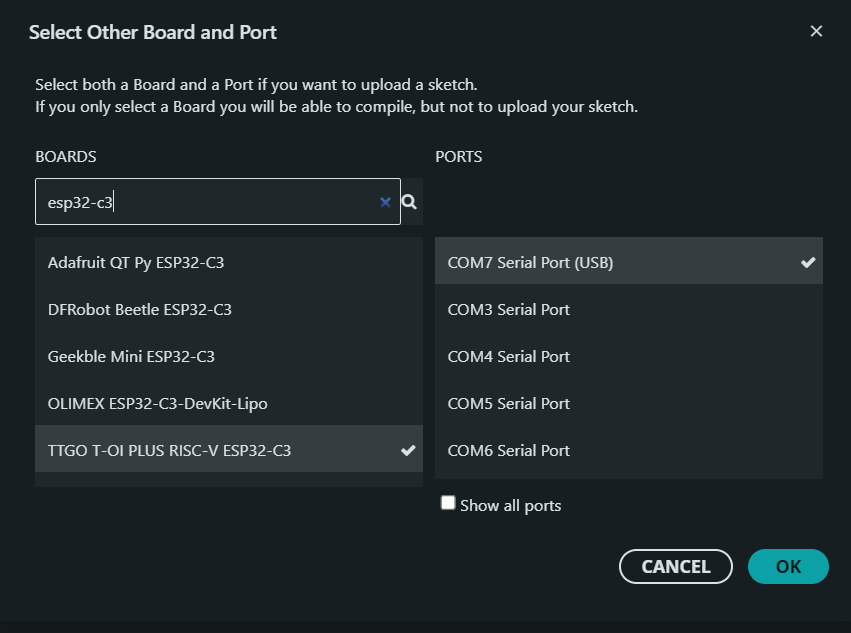
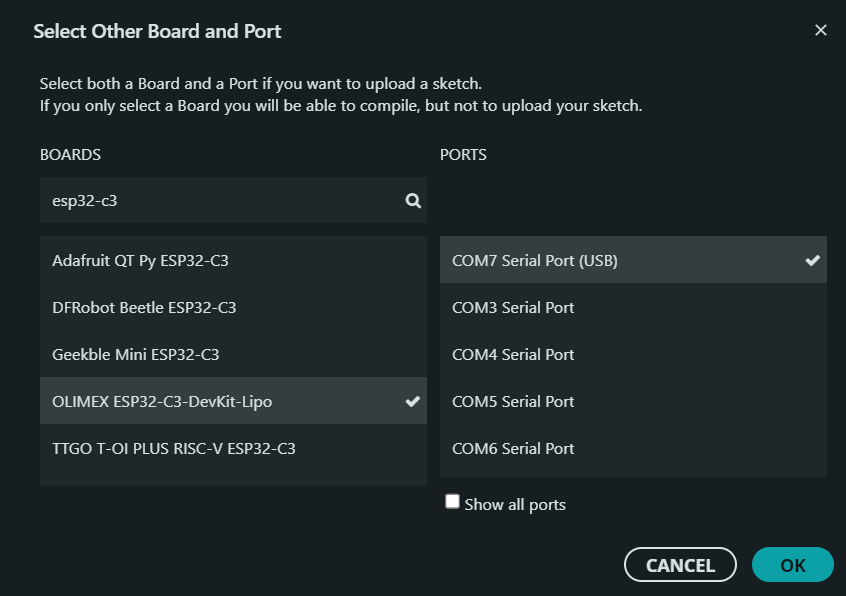
add micrcontroller intro

diff --git a/source/_posts/electronics/getting-started.md b/source/_posts/electronics/getting-started.md
@@ -1,12 +1,13 @@
 ---
 title: Getting Started with the ESP32 and and arduino IDE
-date: 2025-10-06 00:00:00
+date: 2025-11-06 00:00:00
 tags:
   - electronics
   - esp32
   - arduino
   - coding
   - gpio
+  - microcontroller
 ---
 
 ![](/images/electronics/board.jpg)
@@ -19,17 +20,17 @@ So you've decided to get started with working on a micro controller, good for yo
 
 I know when I **started** this process there was a lack of information on how to do this as a beginner, a lot of knowledge was assumed that I just didn't have, I will go from nothing to building some fairly complicated environments using as few pieces and as cheap pieces as I can, I found a lot of good deals were available on Temu (not an endorsement just my own findings) for cheap, reliable components although every country also has local suppliers who may have good deals.
 
-This will be the first in a series of articles on how to set up and use a variety of electronics including breadboards, simple circuits, microcontrollers and coding, this first article will be preparing the environment for microcontrollers (other than the Raspberry Pi which will need its own series).
+This will be the first in a series of articles on how to set up and use a variety of electronics including breadboards, simple circuits, microcontrollers (A microcontroller is simply a electronics board with some kind of processor on it and usually some pins for you to plug things into and make them do things.) and coding, this first article will be preparing the environment for microcontrollers (other than the Raspberry Pi which will need its own series).
 
 The first thing you will need to do is download and install the [Arduino IDE](https://www.arduino.cc/en/software) (https://www.arduino.cc/en/software/)
 
-Connect the device to your computer for easier management and it _should_ show up as a USB serial port, it is possible to work over bluetooth but this was easier for me (and I'm all about ease of use.), if it doesn't show up immediately try pressing the boot button on the board to force it to redetect.
+Connect the device to your computer for easier management and it _should_ show up as a USB serial port, it is possible to work over bluetooth but this was easier for me (and I'm all about ease of use.), if it doesn't show up immediately try pressing the boot button on the board to force it to redetect. You will have two buttons on the board one labelled boot and one labelled reset, reset simply resets the board as if it was just plugged in and boot does a more intensive boot process.
 
 Once installed open the Arduino IDE and press **ctrl-shift-b** or click Tools->Board->Boards Manager, when I did this for the first time you are prompted to install some extra components. Once those are installed search for esp32 and install the expressif esp32 plugin.
 ![](/images/electronics/arduino-ide-board-manager.png)
 Wait for this to be installed, it can take some time. Once installed click the **Select Board** dropdown at the top
 ![](/images/electronics/arduino-ide-boards.png)
-Click Select Other Boards and Port and type in esp32-c3 (in my case as I had a C3 board) choose the one that most closely resembles your board and port for me it was the TIGO T-OI RISV-V ESP32-C3 board on COM7 Serial Port (USB)
+Click Select Other Boards and Port and type in esp32-c3 (in my case as I had a C3 board) choose the one that most closely resembles your board and port for me it was the OLIMEX ESP32-C3 board on COM7 Serial Port (USB) - this is important for later on to be able to view the serial port.
 ![](/images/electronics/arduino-ide-board-select.png)
 Click OK to save it.
 
@@ -43,7 +44,7 @@ Now for the **magic**, replace all of the code in the window with the following:
 ```
 #include <Arduino.h>
 
-//sets the LED GPIO pin
+//sets the LED GPIO pin, define is commonly used in arduino IDE and does the same thing as setting a constant (a value that doesn't change) in c++
 #define LED 8
 
 void setup() {
@@ -77,5 +78,11 @@ Once complete it will tell you how much space it will take up on your board so y
 ![](/images/electronics/arduino-ide-output1.png)
 
 You can now click the right facing arrow next to the tick and this will upload it to your board, because this is done as a single workflow it will recompile the code before uploading. You should now see the onboard LED blinking.
+
+You're probably wondering about the println statements, this writes out to the serial console of the device as a form of troubleshooting, to see it you need to click Tools->Serial Monitor and then press the reset button on your device, this may work immediatly for you and you'll see logs, for me I needed to enable JTAG USB monitoring, to do this click Tools->USB CDC On Boot and set it to enabled then re-flash your device.
+
+![](/images/electronics/jtag.png)
+
+You should now see logs appearing in your serial console, this is important for future projects to see whats happening.
 
 Next time we will build a simple web server on the device to control the LED.
